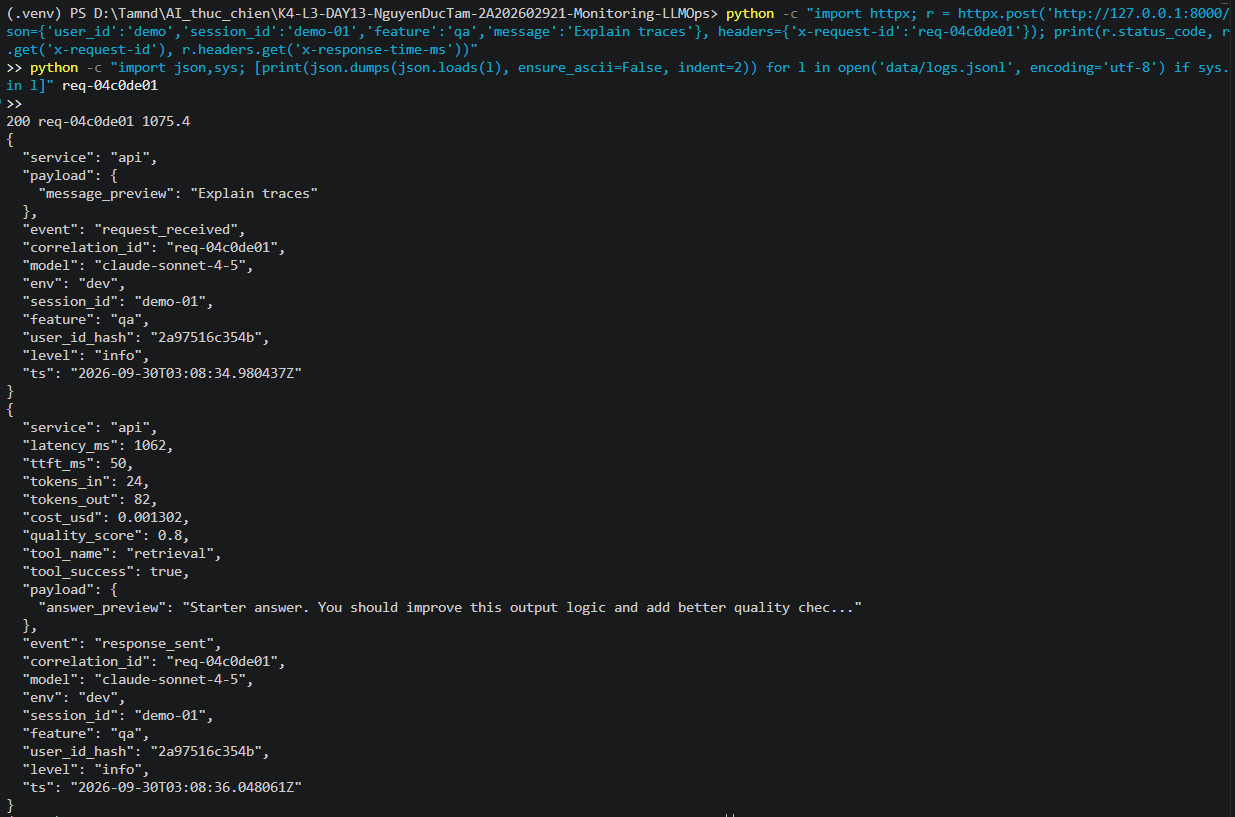
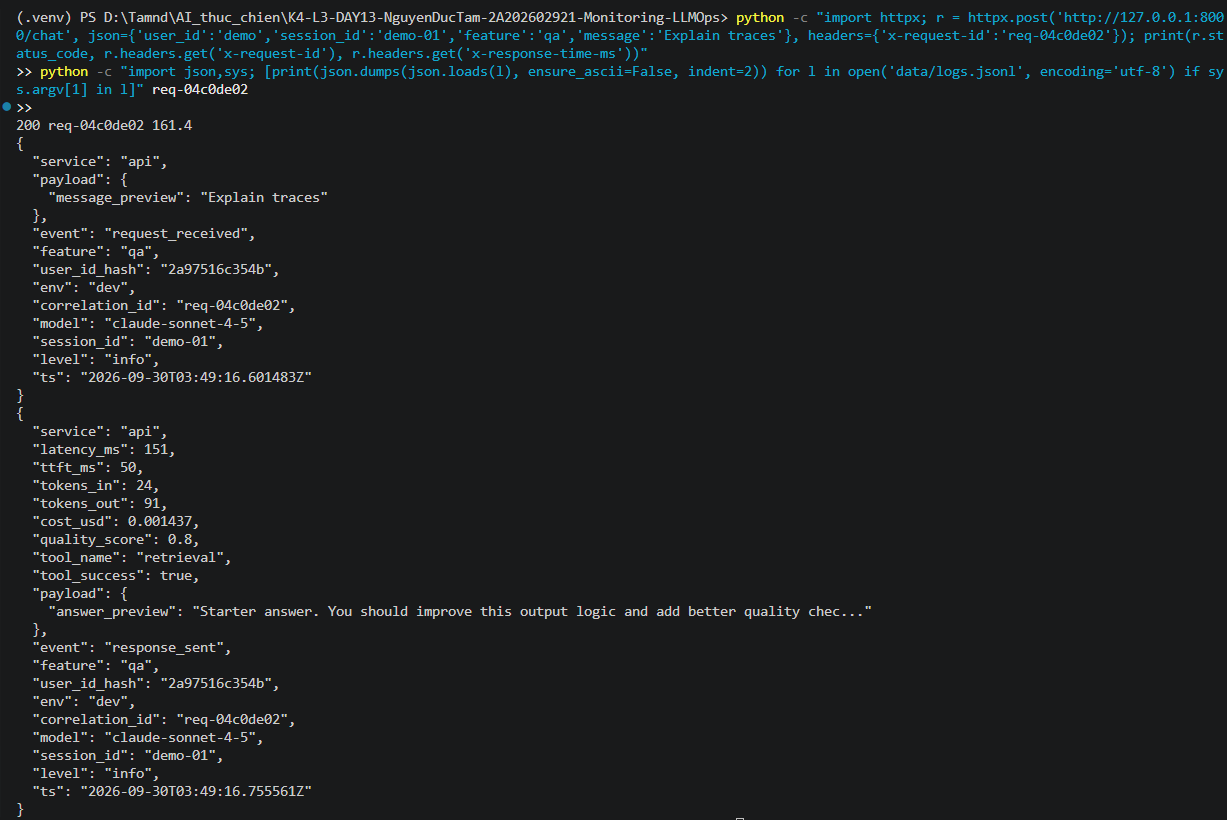
docs: CP3 incident investigation and CP4 report with evidence 01-14
- report: challenge day13-k4-l3b-monitoring-llmops-v1 (rag_slow)
  traced via metrics -> log req-0dd32ce2 -> trace 9ea4b36b (retrieval
  2.50s of 2.65s); fix verified, preventive measures
- report: final results, evidence index 01-14, decisions, blocker,
  lessons and limitations
- evidence: screenshots 03-14 (structured log, traces, prompt
  promote/rollback, dashboard, incident metric/log/trace)

Changed region(s): [[0.0, 0.0, 1.0, 0.9792], [0.0, 0.9792, 0.031, 1.0]]

diff --git a/submission/REPORT.md b/submission/REPORT.md
@@ -1,31 +1,40 @@
 # Báo cáo cá nhân — K4-L3B Day 13 Monitoring & LLMOps
 
-> Mỗi học viên hoàn thiện một file duy nhất này. Chỉ cần 3 output text và 5 ảnh runtime; dùng đường dẫn tương đối, ví dụ `evidence/03-incident-trace.png`.
+> Mỗi học viên hoàn thiện một file duy nhất này. Evidence theo hướng dẫn CP4 của buổi demo (14 mục 01–14). Hướng dẫn này được ưu tiên hơn bộ "3 text + 5 ảnh" trong bản starter cập nhật lúc 10:43 ngày 2026-09-30, vì hai nguồn mâu thuẫn và `docs/SCREENSHOT_GUIDE.md` vẫn dùng bộ 14 mục. Mọi đường dẫn là tương đối, ví dụ `evidence/07-trace-waterfall.png`.
 
 ## 1. Thông tin học viên
 
 - **Họ và tên:** Nguyễn Đức Tâm
 - **MSSV:** 2A202602921
 - **Lớp:** K4-L3B
-- **Repository URL:**
-- **Commit SHA cuối:**
-- **Challenge ID:**
+- **Repository URL:** https://github.com/tamnd2004/K4-L3-DAY13-NguyenDucTam-2A202602921-Monitoring-LLMOps
+- **Commit SHA cuối:** COMMIT_SHA_PLACEHOLDER
+- **Challenge ID:** `day13-k4-l3b-monitoring-llmops-v1`
 - **Tên project Langfuse cá nhân:** `day13-k4-l3b-2A202602921`
 
 ## 2. Evidence index
 
-Giữ đúng ba output text và năm ảnh dưới đây. Không tách thêm ảnh; nếu cần giải thích, ghi bằng chữ trong các mục sau.
+| # | Evidence | Đường dẫn | ID/ghi chú để đối chiếu |
+|---|---|---|---|
+| 00 | Baseline CP0 (text) | [`evidence/00-baseline.txt`](evidence/00-baseline.txt) | trước khi sửa code |
+| 01 | Pytest cuối (text) | [`evidence/01-pytest.txt`](evidence/01-pytest.txt) | `git log -1 --oneline` + `N passed` |
+| 02 | Log validator | [`evidence/02-log-validator.png`](evidence/02-log-validator.png) | 100/100 |
+| 03 | Dashboard validator | [`evidence/03-dashboard-validator.png`](evidence/03-dashboard-validator.png) | HỢP LỆ 6/6 |
+| 04 | Structured log | [`evidence/04-structured-log.png`](evidence/04-structured-log.png) | `req-04c0de02` |
+| 05 | PII redaction | [`evidence/05-pii-redaction.png`](evidence/05-pii-redaction.png) | `req-05c0de01` |
+| 06 | Trace list | [`evidence/06-trace-list.png`](evidence/06-trace-list.png) | dòng 10:49:16 là trace của ảnh 04 |
+| 07 | Trace waterfall | [`evidence/07-trace-waterfall.png`](evidence/07-trace-waterfall.png) | trace `4c2f24ff736e49e17c3846e38ec153fc` |
+| 08a | Trace metadata (root) | [`evidence/08a-trace-metadata-root.png`](evidence/08a-trace-metadata-root.png) | cùng trace, `correlation_id=req-04c0de02` |
+| 08b | Trace metadata (generation) | [`evidence/08b-trace-metadata-generation.png`](evidence/08b-trace-metadata-generation.png) | cùng trace, `Prompt: day13-chat - v1` |
+| 09 | Prompt versions | [`evidence/09-prompt-versions.png`](evidence/09-prompt-versions.png) | v1/v2, `baseline`/`candidate`/`production` |
+| 10a | Sau promote | [`evidence/10a-prompt-promote.png`](evidence/10a-prompt-promote.png) | `production` ở v2 |
+| 10b | Sau rollback | [`evidence/10b-prompt-rollback.png`](evidence/10b-prompt-rollback.png) | `production` về v1 |
+| 11 | Dashboard overview | [`evidence/11-dashboard-overview.png`](evidence/11-dashboard-overview.png) | 6 panel, workload CP2 |
+| 12 | Incident metric | [`evidence/12-incident-metric.png`](evidence/12-incident-metric.png) | baseline 11:15, sự cố 11:16, hồi phục 11:17 |
+| 13 | Incident log | [`evidence/13-incident-log.png`](evidence/13-incident-log.png) | `req-0dd32ce2` |
+| 14 | Incident trace | [`evidence/14-incident-trace.png`](evidence/14-incident-trace.png) | trace `9ea4b36be292143d60299048d5c37f2d` |
 
-| Evidence | Đường dẫn |
-|---|---|
-| Pytest cuối | `evidence/pytest.txt` |
-| Log validator | `evidence/log-validator.txt` |
-| Dashboard validator | `evidence/dashboard-validator.txt` |
-| Structured log + incident log | `evidence/01-incident-log.png` |
-| Trace list | `evidence/02-trace-list.png` |
-| Trace waterfall + metadata + incident trace | `evidence/03-incident-trace.png` |
-| Prompt versions + promote/rollback | `evidence/04-prompt-versioning.png` |
-| Dashboard + incident metric | `evidence/05-dashboard-incident.png` |
+Giờ trong log là UTC, còn Langfuse và dashboard hiển thị giờ Việt Nam (UTC+7), ví dụ `04:16:03Z` trong log = `11:16:03` trên Langfuse.
 
 ## 3. Kết quả kỹ thuật
 
@@ -33,13 +42,13 @@ Baseline (CP0) chạy lúc 2026-09-30 09:44 (UTC+7) với 10 request của `scri
 
 | Nội dung                | Baseline                                   | Kết quả cuối | Nhận xét |
 | ----------------------- | ------------------------------------------ | ------------ | -------- |
-| `validate_logs.py`      | 30/100                                     |              | Baseline: 20/20 record thiếu `correlation_id` và enrichment (`user_id_hash`, `session_id`, `feature`, `model`); 0 correlation ID duy nhất. |
-| `validate_dashboard.py` | HỢP LỆ 6/6 panel                           |              | Contract `config/dashboard.yaml` của starter đã đủ 6 panel. |
-| `pytest`                | 22 passed                                  |              | Lần chạy mặc định: 18 passed, 4 errors do thư mục temp của pytest bị khoá quyền (WinError 5), không phải lỗi code; đổi temp root thì 22/22 pass. |
-| Số traces hợp lệ        | 10 traces, chỉ có root `lab-agent-run`     |              | Chưa có child retrieval/generation; metadata `correlation_id=MISSING`. |
-| Số PII leak             | 0                                          |              | `summarize_text` đã che preview, nhưng processor `scrub_event` chưa được đăng ký trong pipeline log. |
-| Latency P95 / TTFT P95  | 779 ms / 51 ms                             |              | P50 = 388 ms; P95 bị kéo lên bởi request đầu tiên (1092 ms, cold start khi lấy prompt), 9 request còn lại 377–396 ms. |
-| Retrieval success rate  | 100% (10/10)                               |              | Chưa bật incident. |
+| `validate_logs.py`      | 30/100                                     | **100/100** | Baseline: 20/20 record thiếu `correlation_id` và enrichment (`user_id_hash`, `session_id`, `feature`, `model`); 0 correlation ID duy nhất. Cuối: 0 record thiếu field hay enrichment, 0 PII leak ([02](evidence/02-log-validator.png); chạy lại trên log CP3 cũng 100/100). |
+| `validate_dashboard.py` | HỢP LỆ 6/6 panel                           | **HỢP LỆ 6/6 panel** | Contract starter đã đủ 6 panel. Tôi chỉ thêm `response_sent` vào `events` của panel errors để retrieval success tính đúng ([03](evidence/03-dashboard-validator.png)). |
+| `pytest`                | 22 passed                                  | **38 passed** | +16 test mới (PII, correlation/logging, child span, dashboard runtime). Lệnh mặc định trên máy tôi báo 4 error `PermissionError` vì thư mục temp của pytest bị khoá quyền (WinError 5), không phải lỗi code; đổi temp root thì toàn bộ pass ([01](evidence/01-pytest.txt)). |
+| Số traces hợp lệ        | 10 traces, chỉ có root `lab-agent-run`     | **151 traces** đủ cây root/retrieval/generation | Từ lúc thêm child span (10:18 UTC+7) tới hết CP3, cả 151/151 trace có `correlation_id` hợp lệ `req-<8hex>` trùng với log. Project có tổng khoảng 178 root trace ([06](evidence/06-trace-list.png)). |
+| Số PII leak             | 0                                          | **0** | Baseline chỉ nhờ `summarize_text` che preview; cuối cùng `scrub_event` chạy trước khi ghi mọi log, và trace không capture input/output ([05](evidence/05-pii-redaction.png), [08b](evidence/08b-trace-metadata-generation.png)). |
+| Latency P95 / TTFT P95  | 779 ms / 51 ms                             | **169 ms / 50 ms** (vận hành thường) · **2656 ms / 50 ms** (phút sự cố) | Vận hành thường gồm 143 request CP2 và CP3 ngoài phút sự cố: P50 152 ms, P99 1153 ms (cold start sau khi khởi động API). P50 giảm từ 388 xuống 152 ms vì sau khi tạo prompt `day13-chat`, app không còn chờ một lần tải prompt thất bại ở mỗi request. |
+| Retrieval success rate  | 100% (10/10)                               | **100%** (143/143 thường; 5/5 trong sự cố) | Sự cố CP3 là retrieval **chậm** chứ không lỗi, nên tỉ lệ vẫn 100%. Đây là lý do cần alert latency riêng (mục 7). |
 
 ## 4. Logging và PII
 
@@ -49,13 +58,17 @@ Baseline (CP0) chạy lúc 2026-09-30 09:44 (UTC+7) với 10 request của `scri
 - **Cách kiểm chứng kết quả:**
   - Test mới trong [`tests/test_pii.py`](../tests/test_pii.py) (CCCD, 3 format thẻ, hộ chiếu, số thường không bị che, câu ghép 4 loại PII) và [`tests/test_correlation_logging.py`](../tests/test_correlation_logging.py) (header được giữ, ID sai format bị thay, mỗi request có ID riêng, log thật không còn PII, scrub payload lồng nhau và traceback). `pytest`: 31 passed.
   - Chuyển log baseline ra ngoài repo, restart API, chạy `load_test.py` thì `validate_logs.py` đạt **100/100**: 47 record, 0 thiếu field, 0 thiếu enrichment, 23 correlation ID duy nhất, 0 PII leak ([`evidence/02-log-validator.png`](evidence/02-log-validator.png)).
-  - Request mẫu `req-04c0de01` trả header `x-request-id: req-04c0de01`, `x-response-time-ms: 1075.4`; hai dòng log `request_received` và `response_sent` có đủ field ([`evidence/04-structured-log.png`](evidence/04-structured-log.png)). Trace Langfuse `a8439b278aa9dc177321d4c43f6131fc` có metadata `correlation_id=req-04c0de01`.
+  - Request mẫu `req-04c0de02` (gửi sau khi đã có child span và prompt Langfuse) trả header `x-request-id: req-04c0de02`, `x-response-time-ms: 161.4`. Hai dòng log `request_received` và `response_sent` có đủ `ts`, `event`, `correlation_id`, `user_id_hash`, `session_id`, `feature`, `model`, `env`, `latency_ms` ([`evidence/04-structured-log.png`](evidence/04-structured-log.png)). Trace Langfuse `4c2f24ff736e49e17c3846e38ec153fc` có metadata `correlation_id=req-04c0de02` ([`evidence/08a-trace-metadata-root.png`](evidence/08a-trace-metadata-root.png)).
   - Request `req-05c0de01` gửi `a@b.vn 0901234567 001099012345 4111 1111 1111 1111` (PII giả); log ghi `[REDACTED_EMAIL] [REDACTED_PHONE_VN] [REDACTED_CCCD] [REDACTED_CREDIT_CARD]` ([`evidence/05-pii-redaction.png`](evidence/05-pii-redaction.png)). Trace tương ứng: `1cd1a427df7d262d510afe4b9b795aa3`.
 
 ## 5. Tracing và prompt versioning
 
 - **Cách xác nhận traces do chính tôi tạo trong project cá nhân:** key trong `.env` (không commit) được tạo trong project `day13-k4-l3b-2A202602921`, và `GET /api/public/projects` bằng key này trả đúng tên project đó. Mọi trace do tôi tự chạy `scripts/load_test.py` hoặc gửi request có `x-request-id` tự đặt; `correlation_id` trong metadata trace khớp với dòng log trong `data/logs.jsonl` của máy tôi. Pytest chạy trong terminal không nạp key nên không tạo trace lạ.
-- **Cấu trúc root/retrieval/generation observations:** trace `day13-agent-request` có root `lab-agent-run` (loại `agent`, [`app/agent.py`](../app/agent.py)) và hai child: `retrieval` (loại `retriever`, `@observe` trên `retrieve` trong [`app/mock_rag.py`](../app/mock_rag.py)) và `generation` (loại `generation`, `@observe` trên `FakeLLM.generate` trong [`app/mock_llm.py`](../app/mock_llm.py)). Generation ghi `model`, `usage_details` (input/output tokens), `cost_details` (dùng chung bảng giá với log qua `usage_cost_usd`) và `completion_start_time`, nên Langfuse hiện TTFT khoảng 0.05 s. Prompt version được link qua `propagate_attributes(prompt=managed_prompt)`: chỉ gửi object prompt lấy từ Langfuse, không gửi prompt đã điền câu hỏi. Mọi observation đặt `capture_input=False, capture_output=False` nên Input/Output trống, không có PII.
+- **Cấu trúc root/retrieval/generation observations:** trace `day13-agent-request` có root `lab-agent-run` (loại `agent`, [`app/agent.py`](../app/agent.py)) và hai child: `retrieval` (loại `retriever`, `@observe` trên `retrieve` trong [`app/mock_rag.py`](../app/mock_rag.py)) và `generation` (loại `generation`, `@observe` trên `FakeLLM.generate` trong [`app/mock_llm.py`](../app/mock_llm.py)). Generation ghi `model`, `usage_details` (input/output tokens), `cost_details` (dùng chung bảng giá với log qua `usage_cost_usd`) và `completion_start_time`, nên Langfuse hiện TTFT khoảng 0.05 s. Prompt version được link qua `propagate_attributes(prompt=managed_prompt)`: chỉ gửi object prompt lấy từ Langfuse, không gửi prompt đã điền câu hỏi. Mọi observation đặt `capture_input=False, capture_output=False` nên Input/Output trống, không có PII. Evidence là trace `4c2f24ff736e49e17c3846e38ec153fc` của request ở ảnh 04:
+  - Waterfall ([`07`](evidence/07-trace-waterfall.png)): root 152 ms, retrieval 0 ms, generation 151 ms.
+  - Metadata root ([`08a`](evidence/08a-trace-metadata-root.png)): `prompt_name=day13-chat`, `prompt_label=production`, `prompt_version=1`, `prompt_source=langfuse`.
+  - Generation ([`08b`](evidence/08b-trace-metadata-generation.png)): model `claude-sonnet-4-5`, 115 tokens, $0.001437, TTFT 0.05 s, nhãn `Prompt: day13-chat - v1`.
+  - Danh sách trace ([`06`](evidence/06-trace-list.png)) có tên project cá nhân, trace name `day13-agent-request`, cột Input/Output trống, và trace này ở dòng 10:49:16.
 - **Cách nối trace với log:** middleware sinh hoặc nhận `correlation_id`, đưa vào `request.state`, rồi `LabAgent.run` đặt vào `propagate_attributes(metadata={"correlation_id": ...})`, nên metadata của root và cả hai child đều có ID này. Từ log lấy `correlation_id` rồi lọc metadata trên Langfuse là ra đúng trace. Ví dụ `req-c2c2c2c2` ứng với trace `c801199bd58039908e2ff5821431ee8c`.
 - **Prompt name:** `day13-chat` (loại Text, ba biến `{{feature}}`, `{{docs}}`, `{{message}}`), tạo bằng Langfuse Python SDK `create_prompt` trong project cá nhân.
 - **Version/label baseline:** v1 = đúng template local (`Feature=…\nDocs=…\nQuestion=…`), labels `baseline` và `production`.
@@ -89,6 +102,8 @@ Baseline (CP0) chạy lúc 2026-09-30 09:44 (UTC+7) với 10 request của `scri
   - Quality: mean, ngưỡng ≥ 0.75.
 
   Retrieval success tính trên mọi event có `tool_success` (`response_sent` lẫn `request_failed`), nên tôi thêm `response_sent` vào `events` của panel errors; nếu chỉ lấy `request_failed` thì tỉ lệ luôn 0%. `python scripts/dashboard.py --summary` in cùng số liệu ra terminal. Test: [`tests/test_dashboard_runtime.py`](../tests/test_dashboard_runtime.py).
+
+  Ảnh [`11-dashboard-overview.png`](evidence/11-dashboard-overview.png) chụp workload CP2 (09:50–10:50, 158 request): cả 6 panel OK, P50 153 ms, P95 1109 ms, TTFT P95 50 ms, error 0%, retrieval 100%, cost $0.33, quality 0.876. Validator: [`03-dashboard-validator.png`](evidence/03-dashboard-validator.png).
 - **SLO và lý do chọn:** giữ SLO `fast_successful_requests`: 99.5% request thành công **và** ≤ 3000 ms trong 28 ngày ([`config/slo.yaml`](../config/slo.yaml)). Baseline CP0 có P50 388 ms, P95 779 ms, tối đa 1092 ms. Sau khi tạo prompt trên Langfuse, request thường chỉ khoảng 152 ms; cold start tải prompt khoảng 1.1 s. Ngưỡng 3000 ms chừa khoảng 2.7 lần headroom so với request chậm nhất bình thường, nên cold start không đốt budget. Target 99.5% (không phải 99.9%) vì app phụ thuộc hai dịch vụ ngoài và chạy một instance, không retry/failover.
 - **Cách tính error budget:** budget = 100% − 99.5% = 0.5% số request trong 28 ngày: `floor(total × 0.005)`. 10,000 request thì được phép 50 request lỗi hoặc > 3000 ms. Với workload lab khoảng 10 request/phút (403,200 request/28 ngày) thì được 2,016 request, tức khoảng 72 request/ngày hay 3 request/giờ. Một sự cố lỗi 100% traffic đốt khoảng 3 giờ budget mỗi phút, nên alert lỗi phải phát sau 5 phút.
 - **Ba alert và runbook tương ứng:** định nghĩa trong [`config/alert_rules.yaml`](../config/alert_rules.yaml), runbook trong [`docs/alerts.md`](../docs/alerts.md). Cả ba có owner `student-2A202602921` và gửi Slack `#k4-l3b-alerts`:
@@ -102,34 +117,64 @@ Baseline (CP0) chạy lúc 2026-09-30 09:44 (UTC+7) với 10 request của `scri
 
 ## 7. Điều tra challenge
 
-- **Challenge ID:**
-- **Khoảng thời gian điều tra:**
-- **Triệu chứng từ metrics:**
-- **Log line và correlation ID liên quan:**
-- **Trace ID và span gây ảnh hưởng:**
-- **Root cause:**
-- **Fix action:**
+- **Challenge ID:** `day13-k4-l3b-monitoring-llmops-v1` (cohort K4, 5 query feature `monitoring`, `latency_threshold_ms` 2000).
+- **Khoảng thời gian điều tra:** ngày 2026-09-30, giờ UTC+7. Trước đó log cũ đã được chuyển ra ngoài repo và API chạy không `--reload`.
+  - Baseline: 11:15:19–11:15:24, 10 request.
+  - Challenge: 11:16:02–11:16:16 (04:16:02–04:16:16 UTC trong log).
+  - Sau khi fix: 11:17:39–11:17:42, 10 request.
+- **Triệu chứng từ metrics:** chỉ panel *Latency* bất thường ([`evidence/12-incident-metric.png`](evidence/12-incident-metric.png)):
+  - Phút 11:16: P50 **2653 ms**, P95 **2656 ms**, so với phút baseline 11:15 là P50 152 ms. Tăng khoảng 17 lần, và cả 5/5 request vượt `latency_threshold_ms` 2000 của challenge.
+  - TTFT P95 vẫn 50 ms, error rate 0%, retrieval success 100%; cost, tokens và quality (0.84 so với 0.88) nằm trong dao động bình thường. Vậy phần chậm nằm trước lúc LLM trả token đầu, và request không lỗi.
+  - Panel *Traffic* báo BREACH chỉ vì cửa sổ 60 phút mới có ít request sau khi chuyển log ra ngoài, không phải triệu chứng của sự cố.
+- **Log line và correlation ID liên quan:** lọc `response_sent` có `latency_ms > 2000` ra đúng 5 request challenge (session `k4-l3b-challenge-s01…s05`, 2652–2656 ms). Request đại diện là **`req-0dd32ce2`** ([`evidence/13-incident-log.png`](evidence/13-incident-log.png)):
+  `{"event": "response_sent", "correlation_id": "req-0dd32ce2", "session_id": "k4-l3b-challenge-s05", "feature": "monitoring", "model": "claude-sonnet-4-5", "env": "dev", "latency_ms": 2653, "ttft_ms": 50, "tool_name": "retrieval", "tool_success": true, "ts": "2026-09-30T04:16:05.767783Z"}`.
+  Log cũng có sự kiện thay đổi cấu hình `{"service": "control", "event": "incident_enabled", "ts": "2026-09-30T04:16:02.111434Z"}`, xảy ra 1 giây trước request chậm đầu tiên.
+- **Trace ID và span gây ảnh hưởng:** trace **`9ea4b36be292143d60299048d5c37f2d`** (metadata `correlation_id=req-0dd32ce2`, prompt `day13-chat` production v1, [`evidence/14-incident-trace.png`](evidence/14-incident-trace.png); trong ảnh timeline, thanh xanh lá 2.50 s là `retrieval`, thanh hồng 153 ms là `generation`). Root `lab-agent-run` mất 2.654 s, trong đó **`retrieval` mất 2.500 s (94%)**. `generation` mất 0.153 s với TTFT 0.052 s, giống baseline (trace `17208be5a3c9855936b1a4429d7bfa55` của `req-e982830f`: retrieval ~0 s, generation 0.153 s). Không observation nào ở level ERROR. Cả 5 trace challenge đều có retrieval 2.500–2.501 s.
+- **Root cause:** bước **retrieval (RAG) chậm thêm một lượng cố định khoảng 2.5 s mỗi lần gọi**, bắt đầu cùng lúc với thay đổi cấu hình `incident_enabled` lúc 11:16:02: đây là incident `rag_slow`, mô phỏng vector store phản hồi chậm trong [`app/mock_rag.py`](../app/mock_rag.py). Ba lớp bằng chứng cùng loại trừ các nguyên nhân khác:
+  - Metric: TTFT, token và cost không đổi, nên không phải LLM hay prompt dài.
+  - Log: `tool_success=true` và không có `request_failed`, nên retrieval chậm chứ không lỗi.
+  - Trace: prompt vẫn production v1 và generation 0.15 s như baseline, còn retrieval chiếm 94% latency.
+- **Fix action:** tắt nguồn gây chậm của retrieval (`python scripts/inject_incident.py --disable`, lúc 11:17:39; trong production tương ứng với failover hoặc khôi phục vector store) rồi kiểm chứng bằng cùng workload. 10/10 request quay về 151–154 ms. Trace sau fix `088fd888b9e4124a3e9a4ee67261ad8e` (`req-2f694a46`) có retrieval ~0 s, root 0.152 s.
 - **Preventive measure:**
+  1. **Alert sớm theo triệu chứng:** giữ `LatencyP95High` ở P95 > 2000 ms ([`config/alert_rules.yaml`](../config/alert_rules.yaml), runbook [Alert 1](../docs/alerts.md#alert-1)). Sự cố này có P95 2656 ms, **vẫn dưới SLO 3000 ms** nên không đốt error budget và badge dashboard vẫn OK; nếu chỉ alert theo SLO thì sẽ bỏ sót, dù người dùng chờ lâu hơn 17 lần.
+  2. **Timeout + fallback cho retrieval:** đặt ngân sách khoảng 500 ms cho `retrieve()`. Quá hạn thì trả tài liệu fallback/cache và log `tool_success=false`, `error_type=RetrievalTimeout`. Latency người dùng khi đó bị chặn dưới 1 s, và sự cố hiện lên ngay ở panel retrieval success và alert 2, thay vì âm thầm làm chậm.
+  3. **Metric theo từng bước:** ghi thêm `retrieval_ms`/`generation_ms` vào `response_sent` và thêm alert `p95(retrieval_ms) > 500 ms` trong 5 phút, để khoanh vùng từ dashboard mà chưa cần mở trace.
+  4. **Hiển thị thay đổi cấu hình:** đưa event `service=control` (`incident_enabled`/config change) lên dashboard làm annotation, để thấy ngay thay đổi xảy ra 1 giây trước triệu chứng.
 
 > Gợi ý cách viết ngắn, không thay cho evidence thực tế: "Metric cho thấy `[latency/error/cost/quality]` bất thường trong `[khoảng thời gian]`. Log line `[event]` có `correlation_id=[...]` đại diện cho request bị ảnh hưởng. Trace cùng `correlation_id` cho thấy span `[retrieval/generation/prompt/tool]` có dấu hiệu `[chậm/lỗi/token tăng]`. Root cause là `[nguyên nhân suy ra từ evidence]`. Fix action là `[hành động khôi phục]`; preventive measure là `[alert/runbook/test/guardrail để ngăn tái diễn]`."
 
 ## 8. Giải thích và tự đánh giá
 
-- **Một quyết định kỹ thuật quan trọng và lý do:**
-- **Một lỗi/blocker đã gặp:**
+- **Một quyết định kỹ thuật quan trọng và lý do:** tôi đặt alert latency ở **P95 > 2000 ms**, thấp hơn ngưỡng SLO 3000 ms, thay vì alert đúng bằng SLO.
+  - Lý do từ baseline: vận hành bình thường có P95 169 ms, và cả khi cold start P99 cũng chỉ khoảng 1.2 s, nên 2000 ms đã là bất thường rõ ràng.
+  - Challenge CP3 chứng minh quyết định này: retrieval chậm thêm 2.5 s đẩy P95 lên 2656 ms, vẫn **dưới** SLO nên không đốt error budget và badge latency trên dashboard vẫn OK, trong khi người dùng chờ lâu hơn 17 lần. Alert theo SLO sẽ bỏ sót; alert 2000 ms (trùng `latency_threshold_ms` của đề) thì bắt được.
+  - Một quyết định khác: middleware chỉ nhận `x-request-id` đúng format `req-<8hex>`, vì header do client gửi có thể chứa PII hoặc chuỗi làm giả dòng log.
+- **Một lỗi/blocker đã gặp:** khi viết thêm pattern PII, tôi đổi thứ tự để pattern thẻ chạy trước CCCD (nghĩ là "pattern dài trước thì an toàn hơn"). Test câu ghép `a@b.vn 0901234567 001099012345 4111 1111 1111 1111` fail, output là `[REDACTED_EMAIL] [REDACTED_PHONE_VN] [REDACTED_CREDIT_CARD] 1111 1111 1111`, nghĩa là log vẫn lộ 12 chữ số thẻ. Blocker khác là môi trường: thư mục temp của pytest bị khoá quyền (4 error `PermissionError`), và API `GET /api/public/traces` của Langfuse trả 410 cho org mới.
 - **Cách tìm nguyên nhân và xử lý:**
-- **Cách hiểu luồng Metrics → Logs → Traces:**
+  - Đọc output test thì thấy pattern thẻ `\d{4}[- ]?\d{4}[- ]?\d{4}[- ]?\d{4}` cho phép bỏ dấu cách, nên đã nuốt CCCD `0010 9901 2345` cộng nhóm `4111` thành một "số thẻ", để lại ba nhóm cuối. Tôi trả thứ tự về CCCD trước thẻ, ghi chú lý do trong [`app/pii.py`](../app/pii.py), và giữ test câu ghép làm regression test.
+  - Với pytest, tôi xác nhận lỗi xảy ra cả ngoài sandbox (`icacls` cũng bị từ chối), nên đó là lỗi quyền của thư mục chứ không phải code, và chạy với `PYTEST_DEBUG_TEMPROOT` trỏ sang thư mục khác.
+  - Với Langfuse, tôi đọc body lỗi 410 và chuyển sang `GET /api/public/v2/observations` để kiểm tra trace bằng script.
+- **Cách hiểu luồng Metrics → Logs → Traces:** metrics trả lời *có vấn đề gì và từ lúc nào*: phút 11:16 P95 lên 2656 ms, trong khi TTFT, lỗi và cost bình thường, nên chậm nằm trước LLM và không có lỗi. Logs trả lời *request nào bị ảnh hưởng*: lọc `latency_ms > 2000` ra 5 request và chọn `req-0dd32ce2`. Traces trả lời *bước nào gây ra*: trace cùng `correlation_id` cho thấy `retrieval` chiếm 2.50/2.65 s. Mỗi lớp thu hẹp phạm vi cho lớp sau, và `correlation_id` là khoá nối log với trace. Nếu mở trace ngẫu nhiên trước thì không biết trace nào là bất thường, hay bất thường từ khi nào.
 - **Vai trò của prompt version, token/cost, SLO hoặc rollback trong vận hành LLM:**
-- **Điều quan trọng nhất đã học:**
+  - Prompt là một phần của "code" nhưng thay đổi không cần deploy. Vì vậy mỗi trace phải ghi `prompt_name/label/version`, nếu không sẽ không biết một regression đến từ prompt hay từ code. Ví dụ v2 chỉ thêm một dòng nhưng làm `tokens_in` tăng từ 27 lên 35 (+30%), tức cost input tăng theo mọi request.
+  - Label giúp promote/rollback trong vài giây mà không sửa code; trace sau rollback (`705ce7b6…`, v1) chứng minh request mới đã dùng lại version cũ.
+  - SLO và error budget quyết định mức khẩn cấp: sự cố CP3 không đốt budget, nên cần thêm alert theo triệu chứng để bảo vệ trải nghiệm người dùng.
+- **Điều quan trọng nhất đã học:** kết luận phải đi theo bằng chứng, không theo cảm giác. Ví dụ latency baseline khoảng 380 ms thoạt nhìn giống "app chậm". Nhưng trace `c801199bd58039908e2ff5821431ee8c` (`req-c2c2c2c2`, trước khi tạo prompt) có root 1.1 s trong khi retrieval ~0 s và generation 0.15 s, metadata `prompt_source=local-fallback`, tức thời gian mất ở bước tải prompt `day13-chat` (lúc đó prompt chưa tồn tại). Tạo prompt xong thì P50 còn 152 ms, không cần sửa dòng code nào.
 - **Hạn chế hoặc phần chưa hoàn thành, nếu có:**
+  1. Bước tải prompt (`resolve_prompt`) chưa có span riêng. Vài request lẻ trong CP2 (`req-2d63bbe6` 2119 ms, `req-1ae3e7fd` 1086 ms) có retrieval ~0 s và generation 0.15 s; 1–2 s còn lại là khoảng trống trong root span, nằm ngoài hai child span. Trong code, giữa retrieval và generation chỉ có `resolve_prompt`, nên nhiều khả năng là do tải hoặc làm mới prompt, nhưng waterfall chưa chứng minh được. Cần thêm span riêng `@observe(name="prompt-fetch")` để kiểm chứng.
+  2. Ba alert mới được định nghĩa trong YAML và runbook, chưa nối vào hệ thống alert thật (Prometheus/Grafana hay Slack webhook).
+  3. Badge Traffic tính trung bình cả cửa sổ 60 phút, nên báo BREACH khi lab chỉ chạy vài đợt ngắn (ảnh 12). Nên tính theo các phút gần nhất.
+  4. Prompt v1/v2 được tạo và dời label bằng Langfuse SDK (`create_prompt`, `update_prompt`) thay vì thao tác tay trên UI; kết quả trên UI giống nhau (ảnh 09/10a/10b).
+  5. Ảnh 14 chụp timeline khi tắt "Show labels", nên các thanh không có tên và được nhận diện theo màu (retriever xanh lá, generation hồng), cùng cấu trúc với ảnh 07.
+  6. `config/challenge.json` đã được upstream commit vào starter (`0a7eadb`), nên có trong repo qua lần merge fork. Tôi không sửa file này.
 
 ## 9. Checklist trước khi nộp
 
-- [ ] Kết quả và evidence thuộc commit SHA cuối.
-- [ ] Tất cả ảnh/output mở được bằng đường dẫn tương đối.
-- [ ] Có đúng 3 file text và 5 ảnh runtime theo hướng dẫn.
-- [ ] Incident evidence nối đúng metric → log → trace.
-- [ ] Trace/prompt evidence thuộc project Langfuse cá nhân và ảnh không lộ key/secret.
-- [ ] Repository chạy lại được theo README.
-- [ ] Không có secret, API key, PII thô hoặc evidence của người khác/lớp khác.
+- [x] Kết quả và evidence thuộc commit SHA cuối.
+- [x] Tất cả ảnh/output mở được bằng đường dẫn tương đối.
+- [x] Có evidence 01–14 theo hướng dẫn CP4 của buổi demo (xem mục 2).
+- [x] Incident evidence nối đúng metric → log → trace (`req-0dd32ce2` ↔ trace `9ea4b36b…`).
+- [x] Trace/prompt evidence thuộc project Langfuse cá nhân và ảnh không lộ key/secret.
+- [x] Repository chạy lại được theo README.
+- [x] Không có secret, API key, PII thô hoặc evidence của người khác/lớp khác.
 - [ ] URL repo và commit SHA cuối đã được nộp trên LMS/Codelabs.
